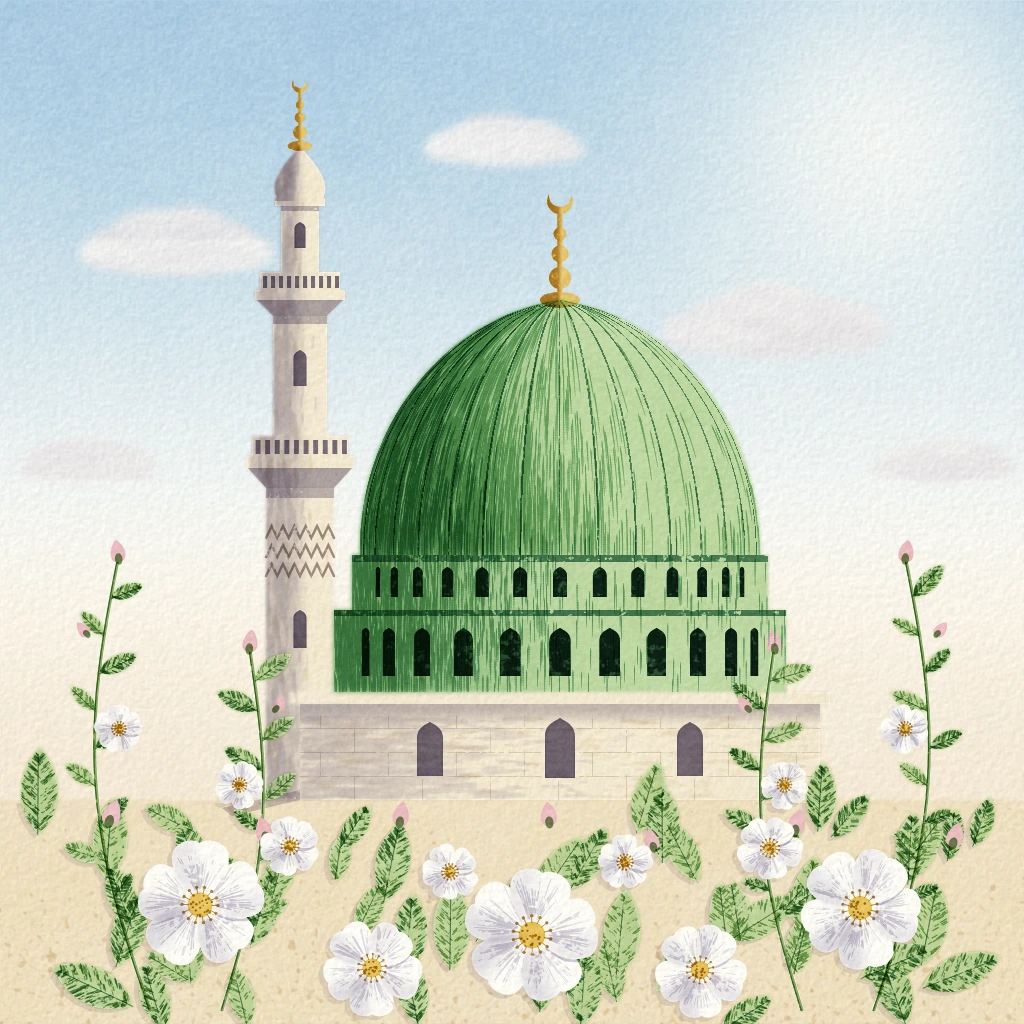
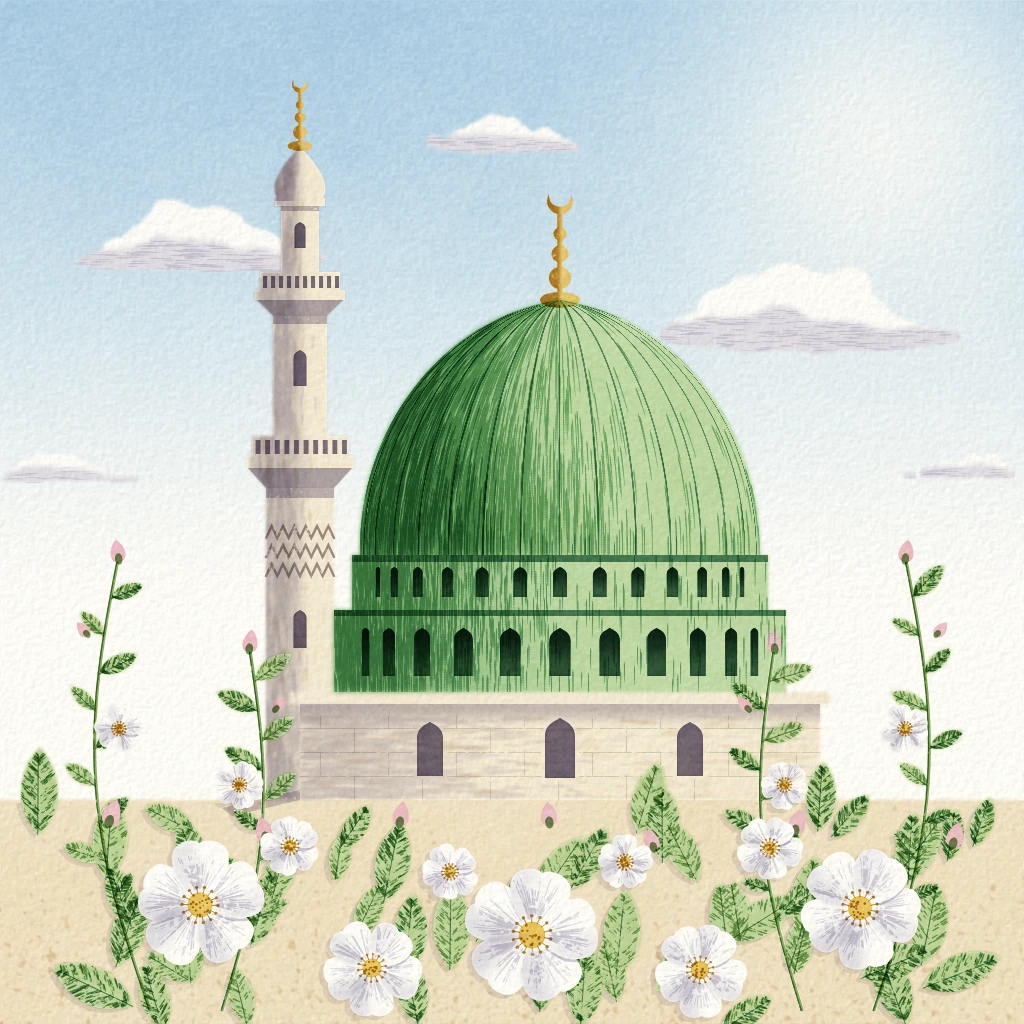
Atölye: beşinci tur gözden geçirmelerinin ara kaydı
Claude-Session: https://claude.ai/code/session_01Q8CfoBGMPN7gfLWQYpMs1J

diff --git a/atolye/stiller/S-169-kuru-firca-naturalist/ornek.html b/atolye/stiller/S-169-kuru-firca-naturalist/ornek.html
@@ -376,7 +376,7 @@
     return M.islem(b, null, (v, _, i) => {
       if (v <= 0.01) return 0;
       const h = M.H[i] * 0.8 + M.G[(i + 7919) % (W * W)] * 0.2;
-      return Math.min(1, v * 1.2) * sstep(0.02, 0.2, v - derin * (1 - h) + 0.1);
+      return Math.min(1, v * 1.2) * sstep(-0.08, 0.26, v - derin * (1 - h) + 0.1);
     }, 'ilk');
   }
   function kuruKat(yollar, o, renk, y) {
@@ -422,16 +422,50 @@
   const GX = 880, GY = 140;
   const gUz = (x, y) => Math.hypot(x - GX, y - GY);
   const gok = M.fMaske([0, 0, W, 812], (x, y) => (y < 800 ? 1 : 0));
-  const mBulut = M.mBulanik(M.maske((c) => {
-    const rb = SAHNE.rng(41);
-    for (const [bx, by, s] of [[175, 255, 1.0], [505, 150, 0.8], [770, 335, 1.1], [945, 470, 0.7], [85, 470, 0.7]]) for (let i = 0; i < 11; i++) {
-      const k = (i + 0.5) / 11, x = bx + (k - 0.5) * 170 * s + (rb() - 0.5) * 12 * s, r = (12 + Math.sin(k * Math.PI) * 24 + rb() * 8) * s;
-      c.beginPath(); c.ellipse(x, by + 8 * s - r * 0.5, r * 1.2, r * 0.82, 0, 0, Math.PI * 2); c.fill();
+  // bulutlar: yatay kuşak boyunca boyları farklı tümsekler (yassılaştırılmış metatop); gök yıkaması çevresinden
+  // yumuşak kenarla dolaşır, tabanda soluk serin gölge, gölgenin içinde birkaç ince yatay kuru darbe
+  const bulutTanim = [[196, 270, 260, 58, 0.95], [512, 152, 170, 36, 0.75], [810, 350, 300, 74, 1.05], [70, 482, 170, 24, 0.58], [960, 478, 150, 22, 0.52]];
+  const RB = SAHNE.rng(1693);
+  const bulutlar = bulutTanim.map(([bx, taban, gen, H, s]) => {
+    const t = [], N = Math.round(gen / 17), u0 = 0.36 + RB() * 0.24, kule = [];
+    for (let k = 0; k < N; k++) {
+      const u = (k + 0.5) / N;
+      const zarf = Math.exp(-(((u - u0) / 0.3) ** 2)) * 0.8 + 0.2 * Math.sin(Math.PI * u);
+      const h = H * (0.18 + 0.82 * zarf) * (0.72 + RB() * 0.5);
+      const r = Math.max(6 * s, 6 * s + h * (0.38 + RB() * 0.22));
+      const lx = bx + (u - 0.5) * gen + (RB() - 0.5) * 8 * s;
+      t.push([lx, taban - h + r, r]);
+      kule.push([lx, h]);
+      const ek = r > 12 * s ? 1 + Math.floor(RB() * 2.4) : 0;
+      for (let j = 0; j < ek; j++) { const a = -Math.PI / 2 + (RB() - 0.35) * 2.0, rr = r * (0.28 + RB() * 0.22); t.push([lx + Math.cos(a) * r * 0.86, taban - h + r + Math.sin(a) * r * 0.86, rr]); }
     }
-  }), 6);
-  M.yika(gok, '#EDDCC0', { yog: 0.5, yumusak: 2, grad: (x, y) => sstep(460, 800, y), koru: tumKor, kenar: 0.06, gran: 0.1, akis: 0.12 });
-  M.yika(gok, '#A2C8E8', { yog: 0.9, yumusak: 1.5, grad: (x, y) => Math.pow(1 - sstep(-40, 640, y), 1.05) * (1 - 0.85 * Math.exp(-((gUz(x, y) / 210) ** 2))), koru: M.islem(tumKor, mBulut, (p, q) => Math.max(p, q * 0.9), 'hepsi'), kenar: 0.1, kenarR: 4, gran: 0.18, akis: 0.12 });
-  M.yika(M.kesis(mBulut, M.fMaske([0, 0, W, 600], (x, y) => sstep(-0.2, 0.9, M.fbm(nz, x / 40, y / 14, 2) * 0.6 + 0.4 * ((y % 120) / 120)))), '#C9C6D6', { yog: 0.35, yumusak: 2, koru: tumKor, kenar: 0.04, gran: 0.1 });
+    return { bx, s, H, t, kule, taban, gen, kutu: [Math.floor(bx - gen / 2 - 50 * s), Math.floor(taban - H * 1.6 - 30), Math.ceil(bx + gen / 2 + 50 * s), Math.ceil(taban + 12)] };
+  });
+  const BF = new Float32Array(W * W), BG = new Float32Array(W * W);
+  for (const b of bulutlar) {
+    const [kx0, ky0, kx1, ky1] = b.kutu;
+    for (let y = Math.max(0, ky0); y < Math.min(W, ky1); y++) for (let x = Math.max(0, kx0); x < Math.min(W, kx1); x++) {
+      const i = y * W + x;
+      const wx = x + (M.fbm(nz, x / 24, y / 24, 3) - 0.5) * 8 * b.s, wy = y + (M.fbm(nz, x / 24 + 31, y / 24 + 17, 3) - 0.5) * 5 * b.s;
+      let F = 0;
+      for (const [lx, ly, r] of b.t) { const dx = wx - lx, dy = (wy - ly) * 1.12, q = (dx * dx + dy * dy) / (r * r); F += Math.exp(-q * q * 0.7); }
+      const uu = (x - b.bx) / (b.gen / 2 + 14 * b.s);
+      const tb = b.taban + (nz(x / 34, b.taban) - 0.5) * 5 * b.s - Math.pow(clamp(Math.abs(uu), 0, 1), 4) * 12 * b.s;
+      const v = sstep(0.42, 0.58, F * sstep(tb + 2, tb - 3, wy) * sstep(1.0, 0.9, Math.abs(uu)));
+      if (v > BF[i]) {
+        BF[i] = v;
+        let hl = 0, wt = 0;
+        for (const [lx, h] of b.kule) { const w = Math.exp(-(((x - lx) / (22 * b.s)) ** 2)); hl += h * w; wt += w; }
+        hl = wt > 0 ? hl / wt : b.H * 0.3;
+        const yb = tb - (5 * b.s + hl * 0.45) * (0.8 + 0.5 * M.fbm(nz, x / 26, b.taban / 9, 3)) - clamp((b.bx - x) / (b.H * 2.2), 0, 1) * hl * 0.2;
+        BG[i] = v * sstep(yb - 5, yb + 5, wy);
+      }
+    }
+  }
+  const mBulut = M.mBulanik(M.fMaske([0, 0, W, 560], (x, y) => BF[y * W + x]), 2);
+  M.yika(gok, '#A2C8E8', { yog: 0.9, yumusak: 1.5, grad: (x, y) => Math.pow(1 - sstep(-40, 640, y), 1.05) * (1 - 0.85 * Math.exp(-((gUz(x, y) / 210) ** 2))), koru: M.islem(tumKor, mBulut, (p, q) => Math.max(p, q * 0.97), 'hepsi'), kenar: 0.12, kenarR: 4, gran: 0.18, akis: 0.12 });
+  M.yika(M.mBulanik(M.fMaske([0, 0, W, 560], (x, y) => BG[y * W + x]), 2), '#C6C3D6', { yog: 0.5, koru: tumKor, kenar: 0.05, gran: 0.1, akis: 0.1 });
+  M.yika(kuruIz(M.kesis(M.maske((c) => { c.lineCap = 'round'; darbeler(c, { n: 700, kutu: [0, 100, W, 540], olas: (x, y) => BG[(y | 0) * W + (x | 0)] * 0.9, yon: () => 0, uz: [10, 24], kal: [0.9, 1.2], tohum: 31, sapma: 0.04 }); }), M.mBulanik(M.fMaske([0, 0, W, 560], (x, y) => BG[y * W + x]), 3)), 0.35, false), '#B4B0C8', { yog: 0.35, koru: tumKor, kenar: 0, gran: 0.08 });
   // taş: soluk okr; kubbe ve kasnak: soluk yeşil; zemin: soluk kum
   M.yika(M.birles(mMinare, mKaide), '#F1E5CC', { yog: 0.75, yumusak: 0.6, koru: korOn, kenar: 0.08, gran: 0.1, akis: 0.15 });
   M.yika(M.birles(mKubbe, mKasnak), '#B5D49A', { yog: 0.85, yumusak: 0.6, koru: korOn, kenar: 0.1, gran: 0.12, akis: 0.15 });
@@ -471,12 +505,12 @@
   kuruKat(Y.kubbe, { n: 3000, kutu: kubbeKutu, olas: (x, y) => 0.04 + 0.96 * sstep(0.95, 0.25, kv(x, y)), yon: meridyen, uz: [26, 52], kal: [0.9, 1.25], tohum: 11, sapma: 0.008 }, '#4F8E58', { yog: 0.5, derin: 0.3, yum: false });
   kuruKat(Y.kubbe, { n: 1700, kutu: kubbeKutu, olas: (x, y) => sstep(0.55, -0.1, kv(x, y)), yon: meridyen, uz: [22, 46], kal: [0.9, 1.2], tohum: 12, sapma: 0.008 }, '#2E6450', { yog: 0.48, derin: 0.3, yum: false });
   // kaburgalar: ince, kesik kesik koyu çizgi ve sağında boş kâğıt payı
-  M.yika(M.fMaske(kubbeKutu, (x, y) => { const i = y * W + x, m = mKubbe.a[i]; if (m <= 0 || y < 305) return 0; const d = KU[i]; return m * (d < -0.1 && d > -2.0 ? 1 : 0); }), '#2C5B45', { yog: 0.8, kuru: 0.36, kuruY: 0.12, koru: korOn, kenar: 0, gran: 0.1, grad: (x, y) => 0.6 + 0.5 * (1 - clamp(kv(x, y), 0, 1)) });
+  M.yika(kuruIz(M.fMaske(kubbeKutu, (x, y) => { const i = y * W + x, m = mKubbe.a[i]; if (m <= 0 || y < 305) return 0; const d = KU[i]; return m * sstep(0.1, -0.4, d) * sstep(-2.2, -1.4, d); }), 0.28, false), '#2C5B45', { yog: 0.75, koru: korOn, kenar: 0, gran: 0.08, grad: (x, y) => 0.55 + 0.55 * (1 - clamp(kv(x, y), 0, 1)) });
   // kasnak: dikey ince darbeler, pencereler kuru fırça kenarlı koyu
   kuruKat([Y.kasnakUst, Y.kasnakAlt], { n: 1500, kutu: [334, 555, 786, 692], olas: (x) => 0.05 + 0.95 * sstep(0.75, -0.35, kIs(x)), yon: () => Math.PI / 2, uz: [16, 30], kal: [0.9, 1.2], tohum: 13, sapma: 0.008 }, '#3F7B55', { yog: 0.5, derin: 0.3, yum: false });
   M.yika(M.yolMaske(Y.kasnakPencereleri), '#2D4E40', { yog: 0.85, koru: korOn, kenar: 0.15, kenarR: 2, gran: 0.15 });
-  M.yika(M.yolMaske(Y.kasnakPencereleri), '#1E3A33', { yog: 0.7, kuru: 0.4, kuruY: 0.12, koru: korOn, kenar: 0 });
-  M.yika(M.fMaske([330, 550, 790, 620], (x, y) => ((y >= 555 && y < 562) || (y >= 610 && y < 616) ? mKasnak.a[y * W + x] : 0)), '#2E5E4B', { yog: 0.6, kuru: 0.38, koru: korOn, kenar: 0 });
+  M.yika(M.kesis(M.yolMaske(Y.kasnakPencereleri), M.fMaske([330, 560, 790, 690], (x, y) => { for (const k of [0, 1]) for (const p of SAHNE.kasnakPencereleri(k)) if (Math.abs(x - p.x) < p.w && y > p.y - 2 && y < p.y + p.h) return sstep(p.y + p.h * 0.85, p.y, y); return 0; })), '#1E3A33', { yog: 0.6, koru: korOn, kenar: 0 });
+  M.yika(kuruIz(M.fMaske([330, 550, 790, 620], (x, y) => ((y >= 555 && y < 562) || (y >= 610 && y < 616) ? mKasnak.a[y * W + x] : 0)), 0.3, false), '#2E5E4B', { yog: 0.6, koru: korOn, kenar: 0 });
   // minare: dikey taş damarı, gölge yanında sık; şerefe altları; pencereler
   const minKutu = [258, 140, 342, 800];
   kuruKat(Y.minare, { n: 1000, kutu: minKutu, olas: (x, y) => (mKaide.a[(y | 0) * W + (x | 0)] > 0.5 ? 0 : 0.04 + 0.96 * sstep(0.35, -0.7, minU(x, y))), yon: () => Math.PI / 2, uz: [14, 30], kal: [1.0, 1.5], tohum: 14, sapma: 0.012 }, '#ADA9C2', { yog: 0.34 });

diff --git a/atolye/stiller/S-191-renkli-kalem-gercekci/ornek.html b/atolye/stiller/S-191-renkli-kalem-gercekci/ornek.html
@@ -887,33 +887,31 @@
     const a = tarama(fu, fv, ar, gok ? 70 : 50, 0.5, 11);
     const b = tarama(fu * c1 + fv * s1, -fu * s1 + fv * c1, ar * 1.08, gok ? 64 : 52, 0.5, 21);
     const c = tarama(fu * c2 + fv * s2, -fu * s2 + fv * c2, ar * 1.04, gok ? 56 : 40, 0.5, 31);
-    let r = S.R[i], g = S.G[i], bl = S.B[i];
-    let bu = 0;
-    if (gok) {
-      // bulut: kâğıdın beyazı korunur; gölge yanı mavi-gri ve leylak kalemle taranır
-      bu = sstep(0.04, 0.42, BUL[i]);
-      if (bu > 0) {
-        const gl = sstep(0.75, 0.3, BIS[i]);
-        const gr = BG3[0] + (BG1[0] - BG3[0]) * gl, gg = BG3[1] + (BG1[1] - BG3[1]) * gl, gb = BG3[2] + (BG1[2] - BG3[2]) * gl;
-        const k = bu;
-        r += (gr - r) * k; g += (gg - g) * k; bl += (gb - bl) * k;
-      }
-    }
+    const r = S.R[i], g = S.G[i], bl = S.B[i];
     const lum = 0.3 * r + 0.59 * g + 0.11 * bl, koyu = 1 - lum;
     // en koyu yerler cilalı (pürüzsüz, diş dolu); orta tonlarda vuruşlar ve diş seçilir
     const cila = sstep(0.5, 0.92, koyu);
     const str = 0.5 * a + 0.3 * b + 0.2 * c;
     let Ct = 0.74 + 0.26 * sstep(0.05, 0.55, koyu);
-    if (bu > 0) Ct = Ct * (1 - bu) + bu * (0.04 + 0.5 * Math.pow(sstep(0.8, 0.3, BIS[i]), 1.3));
+    // katman renk oynaması (üst üste farklı tonda kalemler: mor-mavi ve turkuaz)
+    const hk = (gok ? 0.22 : 0.12) * (b - c);
+    const r2 = r + hk * (bl - g), g2 = g + hk * (r - bl), b2 = bl + hk * (g - r);
+    // kalemin kendi rengi: ortalama örtüyle hedefe ulaşacak biçimde
+    let tr = Math.max(0, kagit[0] + (r2 - kagit[0]) / Ct), tg = Math.max(0, kagit[1] + (g2 - kagit[1]) / Ct), tb = Math.max(0, kagit[2] + (b2 - kagit[2]) / Ct);
+    if (gok) {
+      // bulut: kâğıdın beyazı korunur; yalnız gölge yanı mavi-gri ve leylak kalemle hafifçe taranır
+      const bu = sstep(0.04, 0.42, BUL[i]);
+      if (bu > 0) {
+        const gl = sstep(0.78, 0.3, BIS[i]);
+        const lv = sstep(0.6, 0.35, BIS[i]) * (b > c ? 0.6 : 0.15);
+        const pr = BG1[0] + (BG2[0] - BG1[0]) * lv, pg = BG1[1] + (BG2[1] - BG1[1]) * lv, pb = BG1[2] + (BG2[2] - BG1[2]) * lv;
+        tr += (pr - tr) * bu; tg += (pg - tg) * bu; tb += (pb - tb) * bu;
+        Ct = Ct * (1 - bu) + bu * (0.03 + 0.55 * Math.pow(gl, 1.3));
+      }
+    }
     const kontrast = gok ? 0.95 : tip === T_KUBBE || tip === T_KASNAK ? 0.85 : 0.7;
     let C = Ct + (str - 0.42) * kontrast * (1 - cila * 0.85) * Math.min(1, Ct * 1.6) + (D[i] - 0.5) * 0.5 * (1 - cila * 0.9) * Math.min(1, Ct * 2);
     C = C < 0 ? 0 : C > 1 ? 1 : C;
-    // katman renk oynaması (üst üste farklı tonda kalemler: mor-mavi ve turkuaz)
-    const hk = (gok ? 0.22 : 0.12) * (b - c);
-    let r2 = r + hk * (bl - g), g2 = g + hk * (r - bl), b2 = bl + hk * (g - r);
-    if (bu > 0 && BIS[i] < 0.6) { const lv = sstep(0.6, 0.35, BIS[i]) * (0.5 + 0.5 * (b - c)) * bu * 0.4; r2 += (BG2[0] - r2) * lv; g2 += (BG2[1] - g2) * lv; b2 += (BG2[2] - b2) * lv; }
-    const ctD = Math.max(0.08, Ct);
-    const tr = Math.max(0, kagit[0] + (r2 - kagit[0]) / ctD), tg = Math.max(0, kagit[1] + (g2 - kagit[1]) / ctD), tb = Math.max(0, kagit[2] + (b2 - kagit[2]) / ctD);
     const ust = 1 - 0.06 * a * b * (1 - cila);
     OR[i] = clamp((kagit[0] + (tr - kagit[0]) * C) * ust, 0, 1);
     OG[i] = clamp((kagit[1] + (tg - kagit[1]) * C) * ust, 0, 1);

diff --git a/atolye/stiller/S-194-mavi-kagitta-pastel/ornek.html b/atolye/stiller/S-194-mavi-kagitta-pastel/ornek.html
@@ -952,7 +952,7 @@
       else if (h < ust * 0.5) { col = rnd() < 0.35 * ust ? maviD : maviK; p = 0.28 + 0.26 * ust; }
       else if (h < ust * 0.5 + alt * 0.5) { const q = rnd(); col = q < 0.45 ? maviA : q < 0.7 ? krem : q < 0.85 ? seftali : beyaz; p = 0.3 + 0.2 * alt; }
       if (!col) return;
-      yanVurus(c, x, y, -0.38 + (rnd() - 0.5) * 0.1, 36 + rnd() * 26, 7 + rnd() * 3, col, p, rnd, { uc: 0.5, bukum: 0.12 });
+      yanVurus(c, x, y, -0.32 + (rnd() - 0.5) * 0.1, 30 + rnd() * 20, 7 + rnd() * 3, col, p, rnd, { uc: 0.5, bukum: 0.12 });
     });
     // bulutlar: önce leylak gölge, sonra krem ve beyaz ışık (çubuğun yanıyla hafif eğik)
     for (const kat of [0, 1, 2]) tara(0, 60, 1024, 560, 9, 7, (x, y) => {
@@ -999,8 +999,8 @@
     });
   }
   // kum: sıcak kum ve şeftali, yatay vuruşlar; kâğıt aralarda
-  ogeKat(4, 15, 12, 36, 7, 0, (t, lt) => 0.7, 0.1);
-  ogeKat(4, 18, 14, 26, 6, 0.45, (t, lt) => 0.45, 0.1);
+  ogeKat(4, 11, 9, 30, 7.5, 0, (t, lt) => 0.75, 0.1, -0.22);
+  ogeKat(4, 13, 11, 24, 6.5, 0, (t, lt) => 0.55, 0.1, -0.62);
   // yapraklar ve taç yaprakları
   ogeKat(5, 6, 6, 13, 4.2, 0, (t, lt) => 0.85, 0.08);
   ogeKat(5, 7, 7, 10, 3.6, 0.6, (t, lt) => 0.7 * sstep(0.55, 0.2, lt), 0.08);
